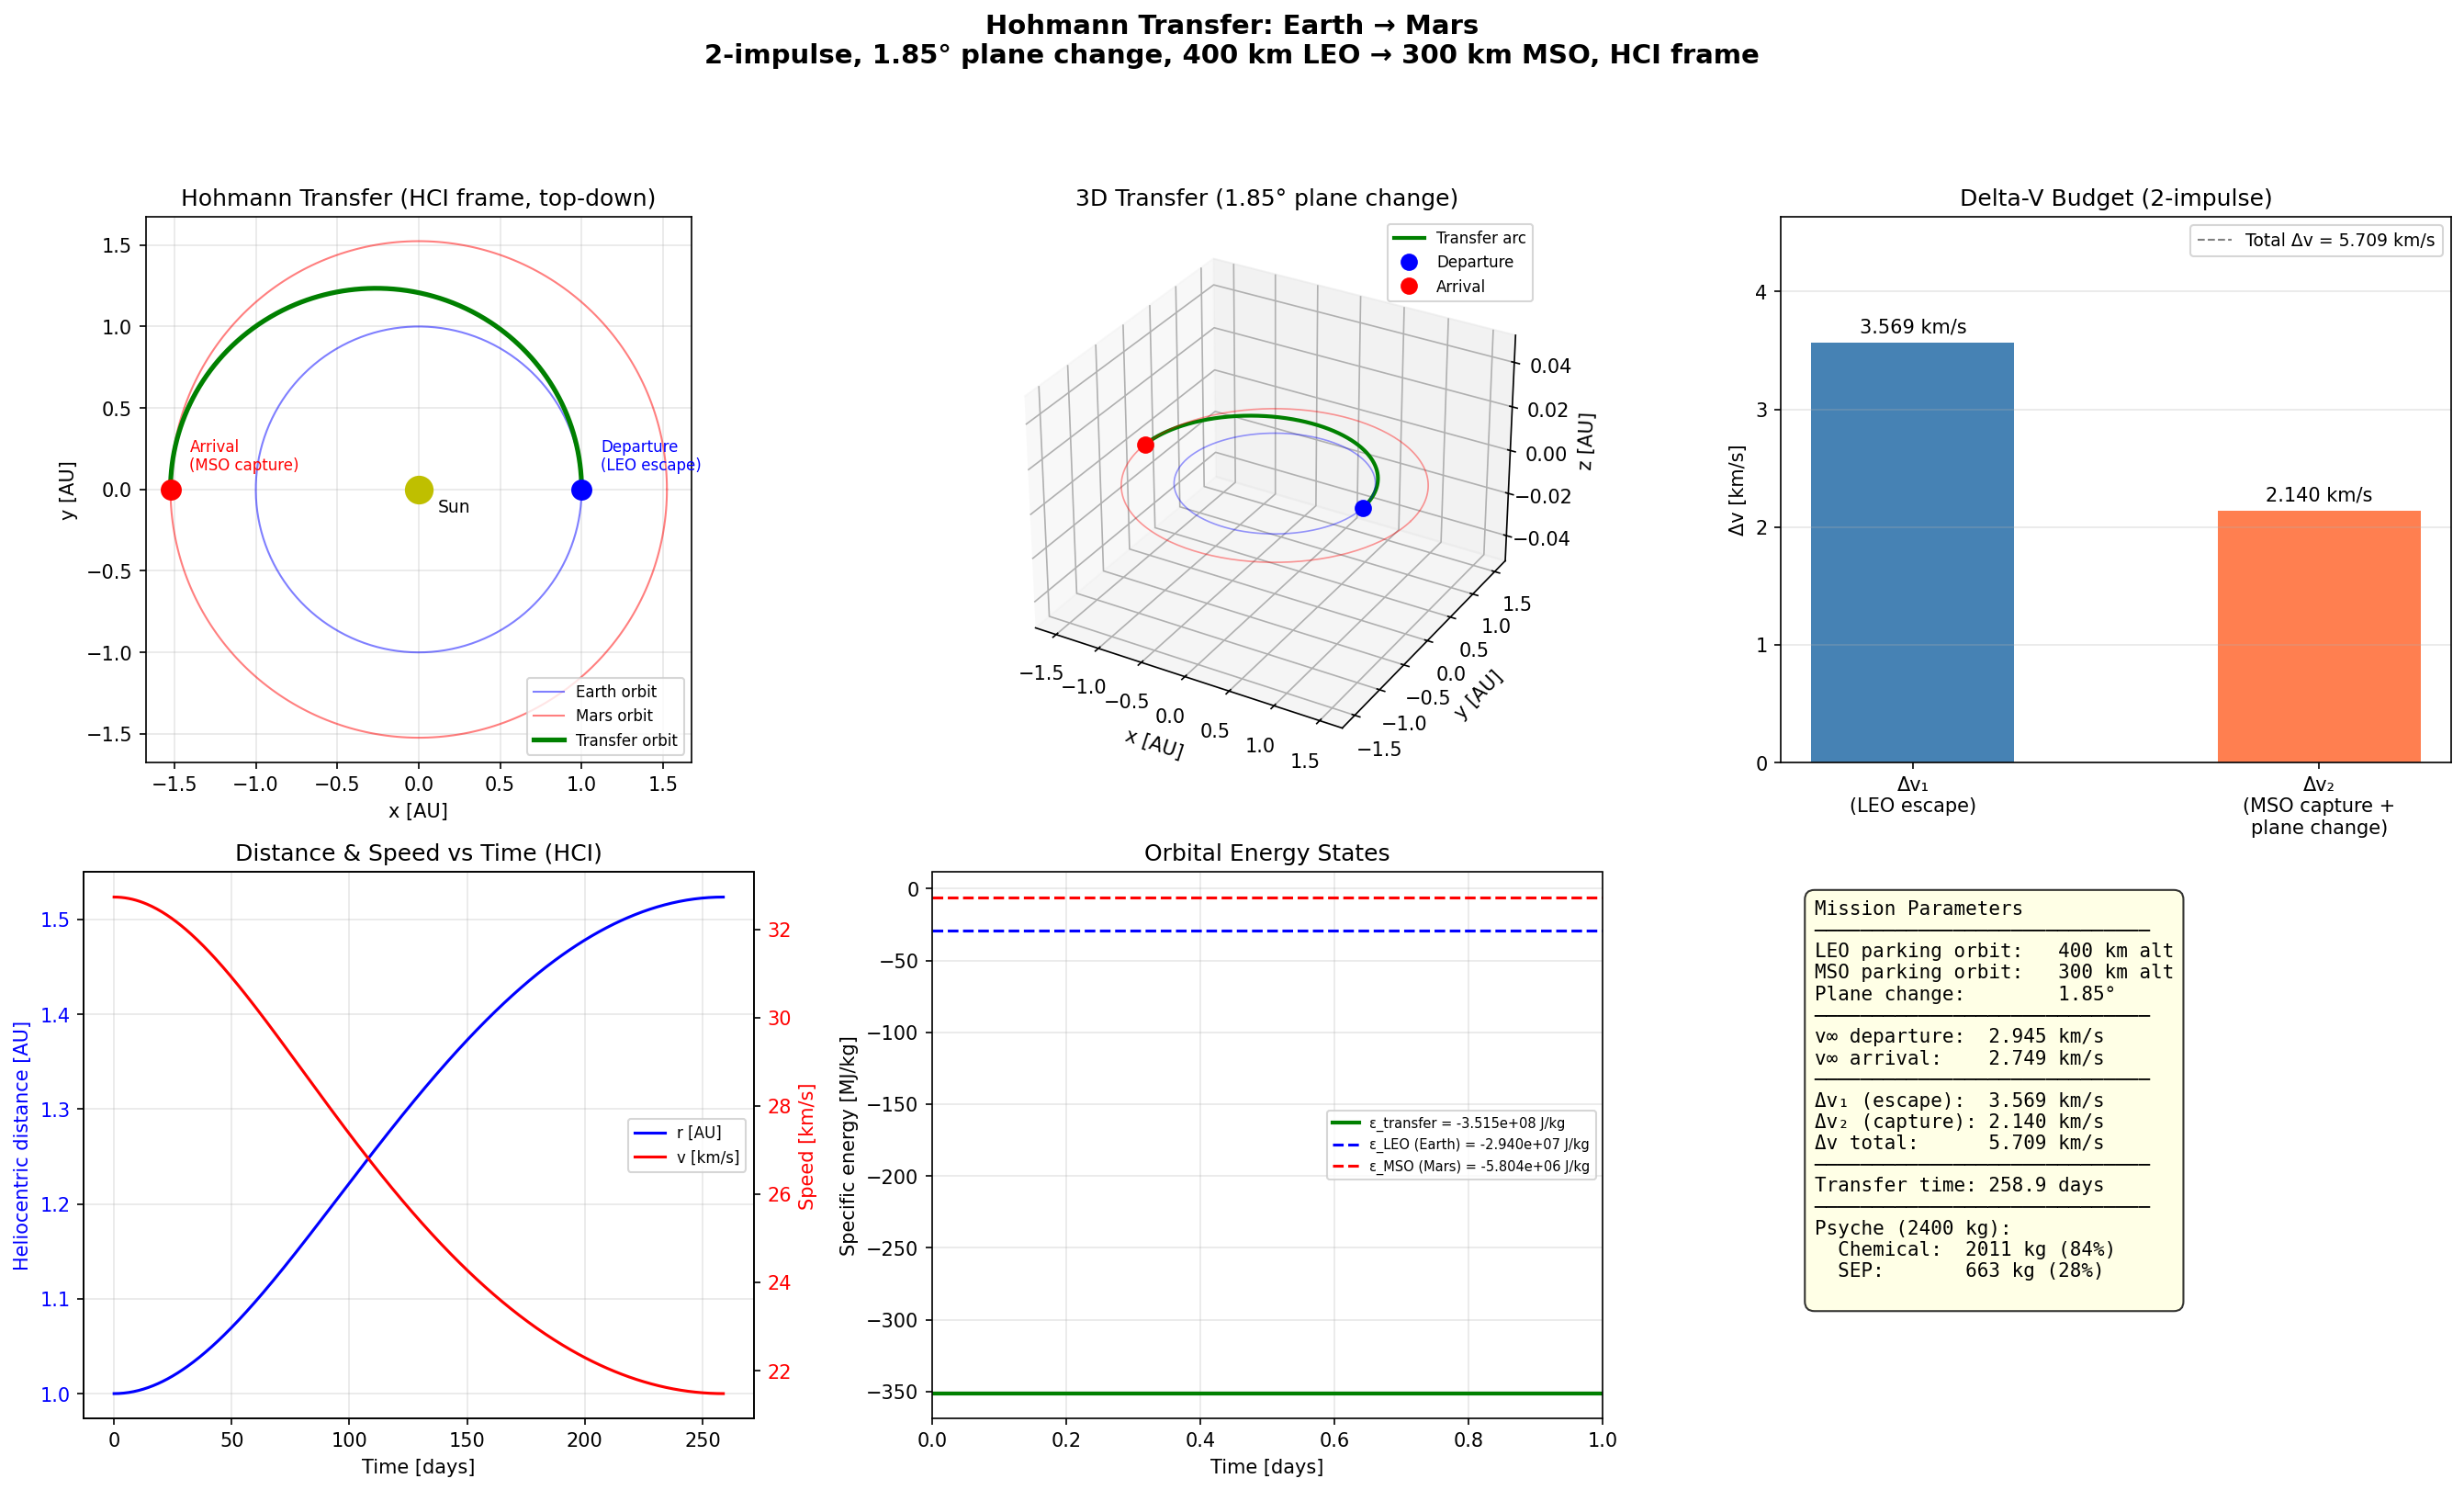
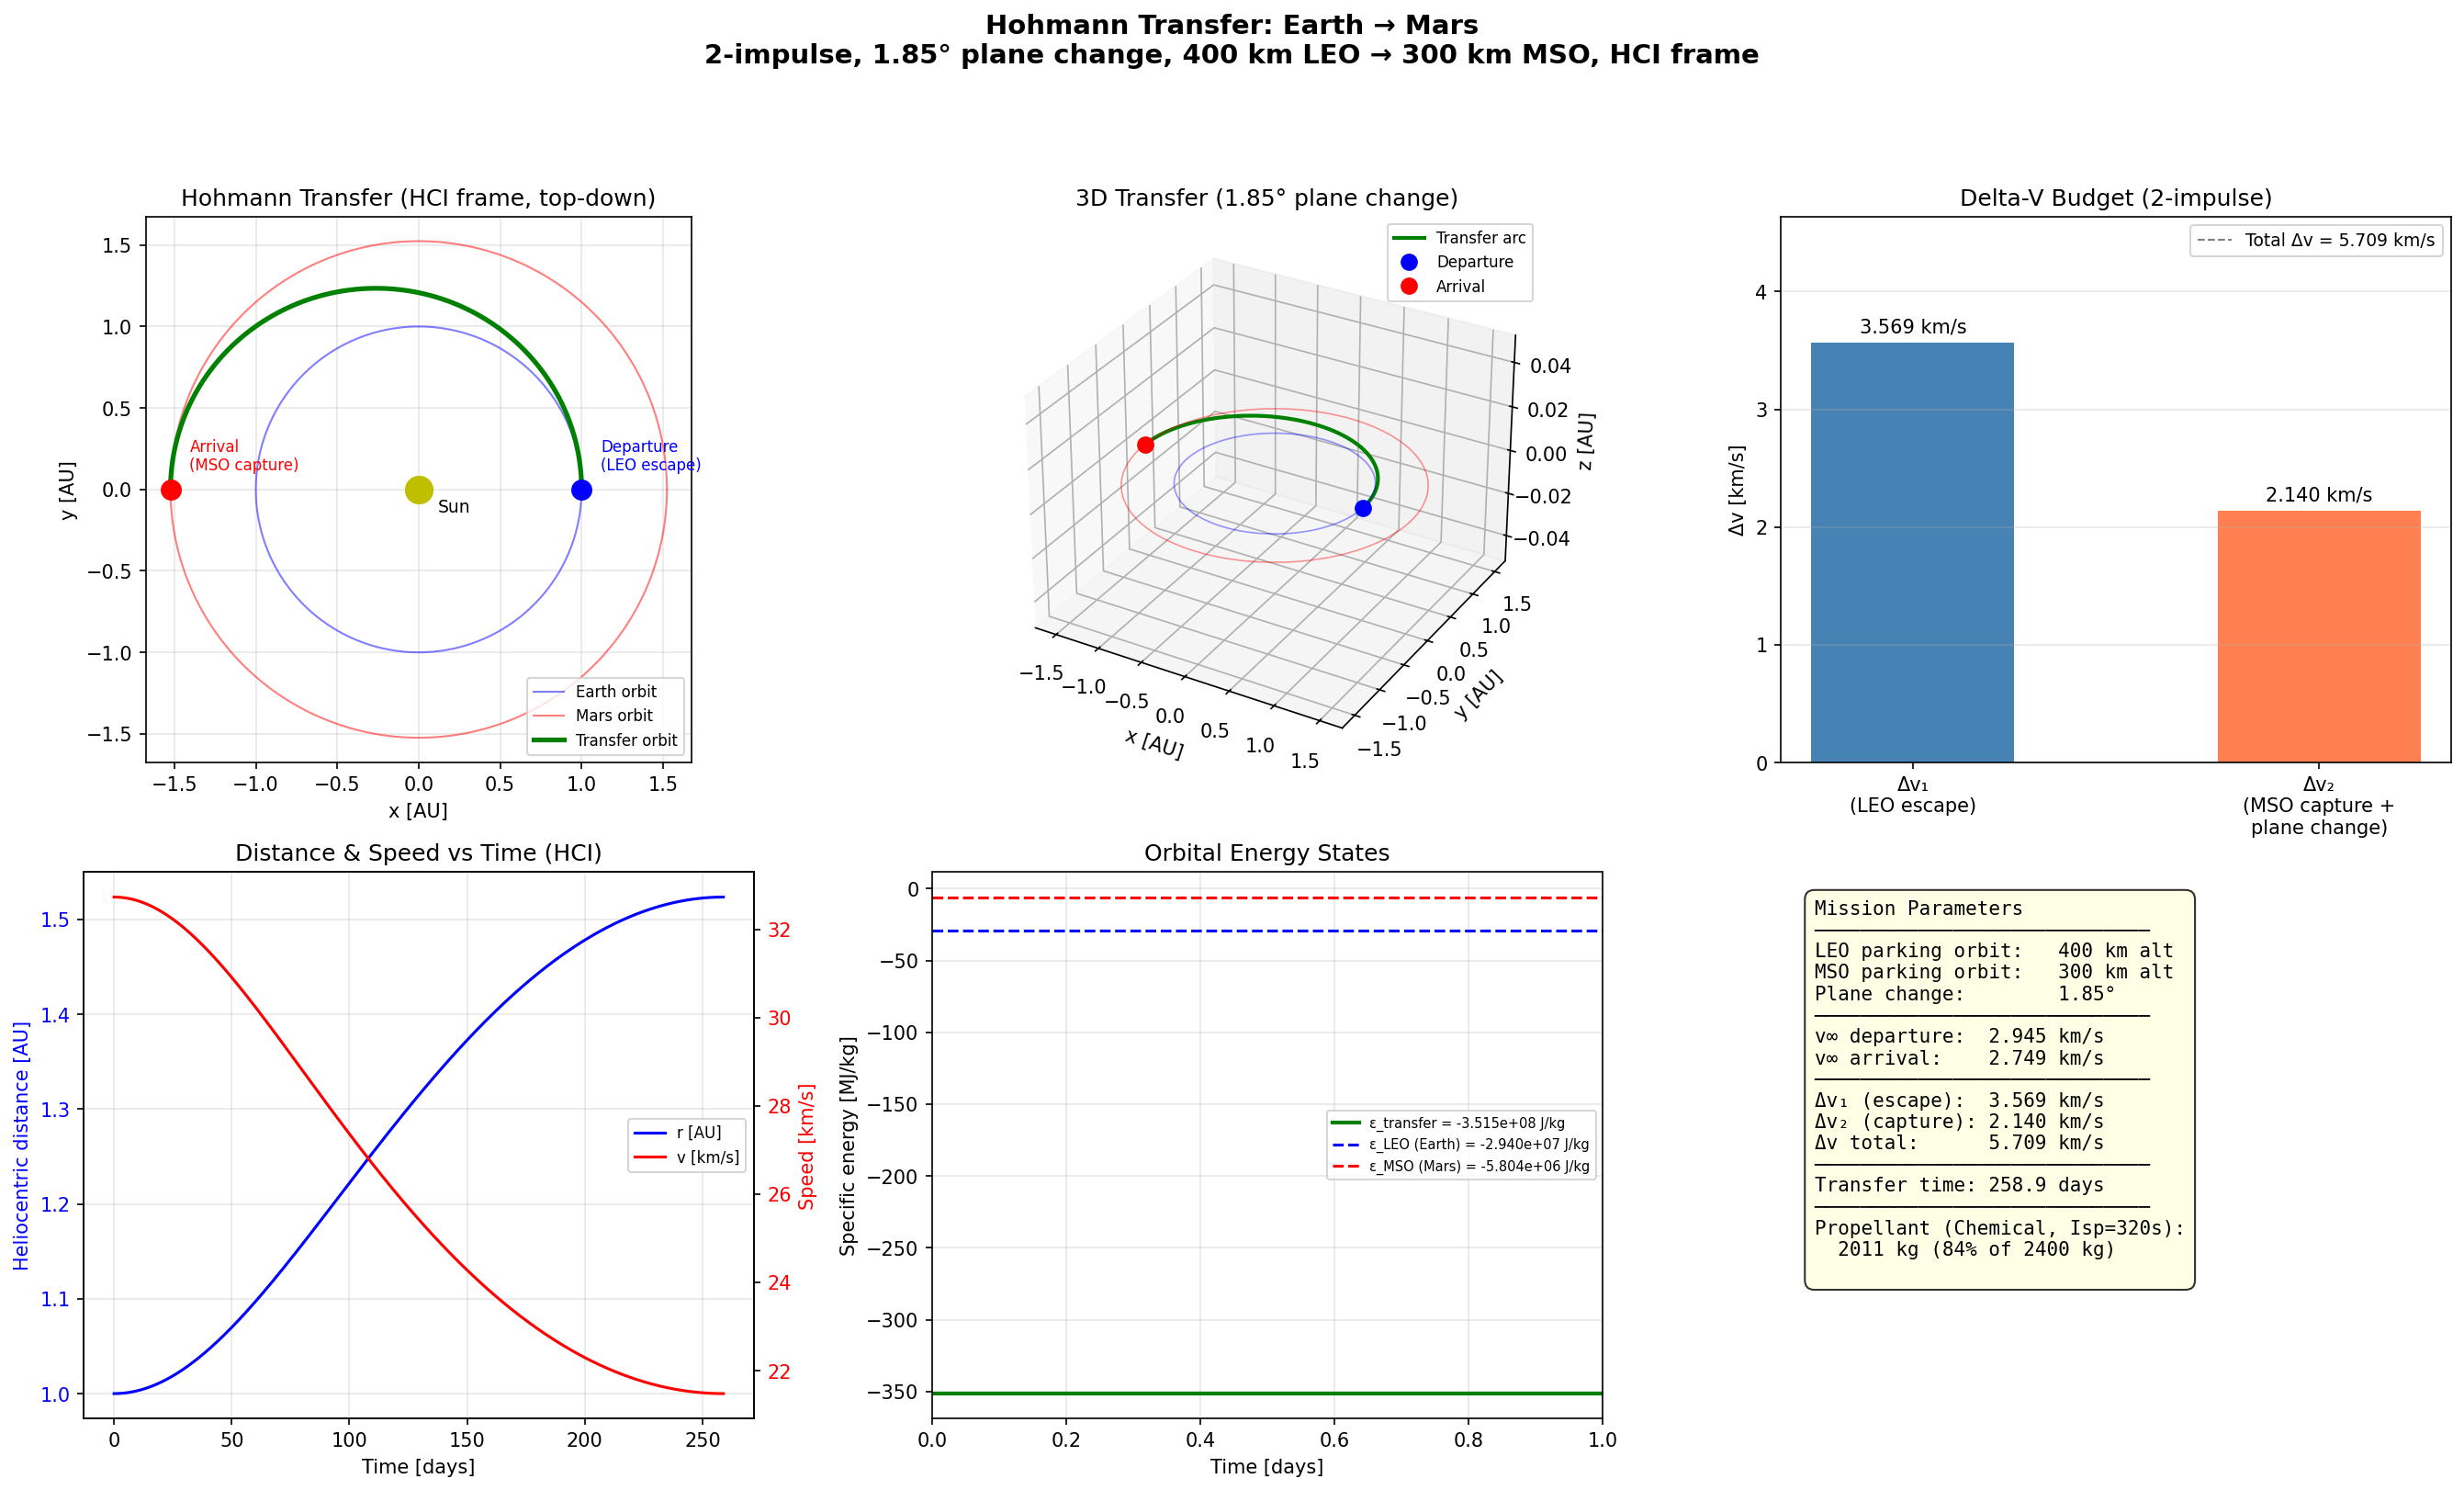
remove SEP propellant comparison from Hohmann transfer plot

Changed region(s): [[0.7115, 0.5857, 0.8971, 0.894]]

diff --git a/scripts/plot_hohmann.py b/scripts/plot_hohmann.py
@@ -139,7 +139,6 @@ def plot_summary(ax, result):
     ax.axis('off')
     tof_days = result.tof / 86400.0
     mp_chem = propellant_mass(result.dv_total, Psyche.m0, 320.0)
-    mp_elec = propellant_mass(result.dv_total, Psyche.m0, Psyche.Isp)
 
     text = (
         "Mission Parameters\n"
@@ -157,9 +156,8 @@ def plot_summary(ax, result):
         "─────────────────────────────\n"
         f"Transfer time: {tof_days:.1f} days\n"
         "─────────────────────────────\n"
-        f"Psyche ({Psyche.m0:.0f} kg):\n"
-        f"  Chemical:  {mp_chem:.0f} kg ({100 * mp_chem / Psyche.m0:.0f}%)\n"
-        f"  SEP:       {mp_elec:.0f} kg ({100 * mp_elec / Psyche.m0:.0f}%)\n"
+        f"Propellant (Chemical, Isp=320s):\n"
+        f"  {mp_chem:.0f} kg ({100 * mp_chem / Psyche.m0:.0f}% of {Psyche.m0:.0f} kg)\n"
     )
     ax.text(0.05, 0.95, text, transform=ax.transAxes,
             fontsize=10, verticalalignment='top', fontfamily='monospace',